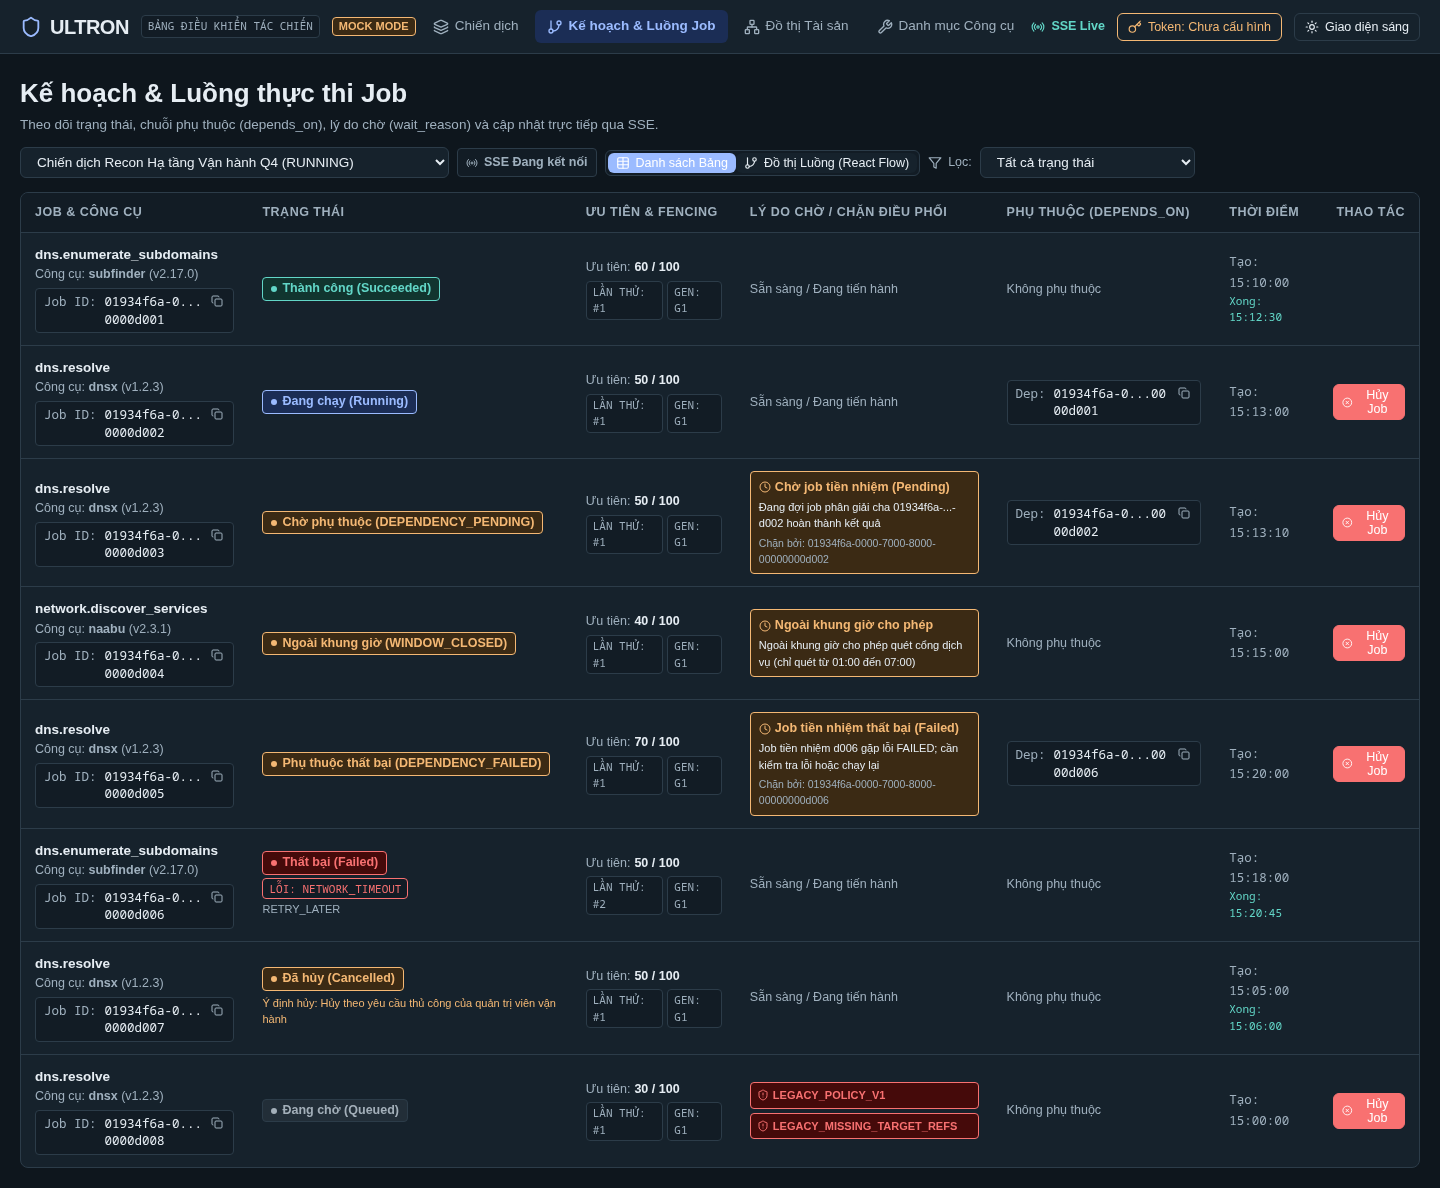
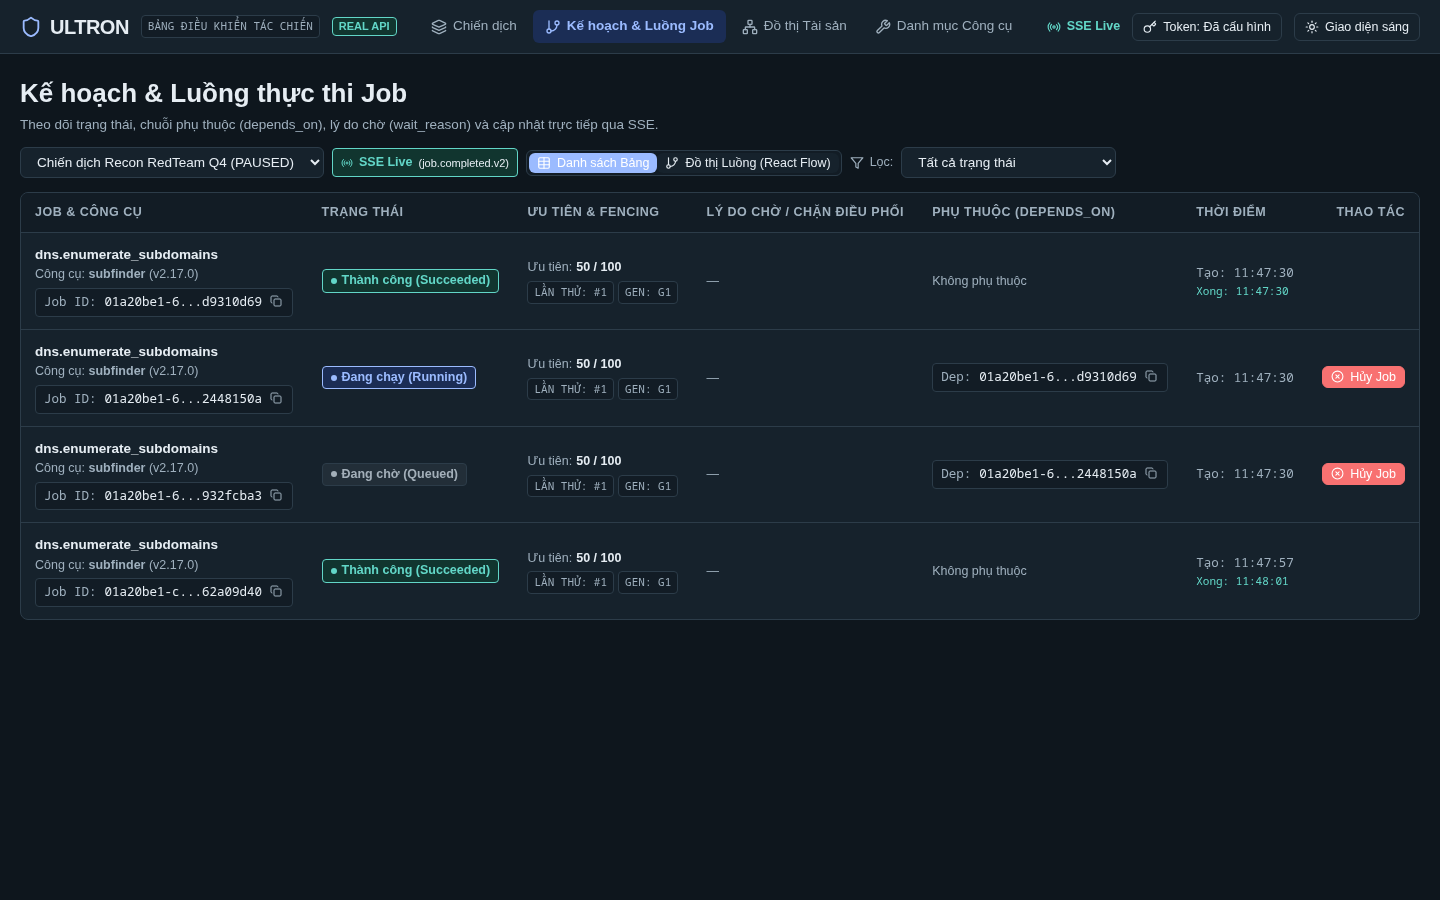
fix(ui): real API screenshots, seed card full width, and terminal job reason display

diff --git a/ui/src/screens/JobTableFlowScreen.tsx b/ui/src/screens/JobTableFlowScreen.tsx
@@ -663,62 +663,63 @@ export const JobTableFlowScreen: React.FC = () => {
                       </div>
                     </td>
                     <td>
-                      {/* Wait Reason rendering */}
-                      {job.wait_reason ? (
-                        <div
-                          style={{
-                            padding: '6px 8px',
-                            backgroundColor: 'var(--warning-bg)',
-                            border: '1px solid var(--warning)',
-                            borderRadius: 'var(--radius-sm)',
-                            fontSize: 'var(--text-xs)',
-                            maxWidth: 280,
-                          }}
-                        >
-                          <div style={{ fontWeight: 600, color: 'var(--warning)', display: 'flex', alignItems: 'center', gap: 4 }}>
-                            <Clock size={12} />
-                            <span>{waitReasonLabels[job.wait_reason.code] || job.wait_reason.code}</span>
-                          </div>
-                          {job.wait_reason.detail && (
-                            <div style={{ fontSize: '11px', color: 'var(--ink)', marginTop: 2 }}>
-                              {job.wait_reason.detail}
+                      {/* Reason text only for QUEUED with wait_reason or dispatch_block_reasons; show '—' for terminal and other jobs */}
+                      {job.status === 'QUEUED' && (job.wait_reason || job.dispatch_block_reasons?.length) ? (
+                        <div>
+                          {job.wait_reason ? (
+                            <div
+                              style={{
+                                padding: '6px 8px',
+                                backgroundColor: 'var(--warning-bg)',
+                                border: '1px solid var(--warning)',
+                                borderRadius: 'var(--radius-sm)',
+                                fontSize: 'var(--text-xs)',
+                                maxWidth: 280,
+                              }}
+                            >
+                              <div style={{ fontWeight: 600, color: 'var(--warning)', display: 'flex', alignItems: 'center', gap: 4 }}>
+                                <Clock size={12} />
+                                <span>{waitReasonLabels[job.wait_reason.code] || job.wait_reason.code}</span>
+                              </div>
+                              {job.wait_reason.detail && (
+                                <div style={{ fontSize: '11px', color: 'var(--ink)', marginTop: 2 }}>
+                                  {job.wait_reason.detail}
+                                </div>
+                              )}
+                              {job.wait_reason.blocking_job_ids?.length ? (
+                                <div style={{ marginTop: 4, fontSize: '10.5px', color: 'var(--muted)' }}>
+                                  Chặn bởi: {job.wait_reason.blocking_job_ids.join(', ')}
+                                </div>
+                              ) : null}
                             </div>
-                          )}
-                          {job.wait_reason.blocking_job_ids?.length ? (
-                            <div style={{ marginTop: 4, fontSize: '10.5px', color: 'var(--muted)' }}>
-                              Chặn bởi: {job.wait_reason.blocking_job_ids.join(', ')}
+                          ) : null}
+
+                          {job.dispatch_block_reasons?.length ? (
+                            <div style={{ display: 'flex', flexDirection: 'column', gap: 4, marginTop: job.wait_reason ? 4 : 0 }}>
+                              {job.dispatch_block_reasons.map((reason, idx) => (
+                                <div
+                                  key={idx}
+                                  style={{
+                                    padding: '4px 6px',
+                                    backgroundColor: 'var(--danger-bg)',
+                                    border: '1px solid var(--danger)',
+                                    borderRadius: 'var(--radius-sm)',
+                                    fontSize: '11px',
+                                    color: 'var(--danger)',
+                                    display: 'flex',
+                                    alignItems: 'center',
+                                    gap: 4,
+                                  }}
+                                >
+                                  <ShieldAlert size={12} />
+                                  <strong>{reason}</strong>
+                                </div>
+                              ))}
                             </div>
                           ) : null}
                         </div>
-                      ) : null}
-
-                      {/* Dispatch Block Reasons rendering */}
-                      {job.dispatch_block_reasons?.length ? (
-                        <div style={{ display: 'flex', flexDirection: 'column', gap: 4, marginTop: job.wait_reason ? 4 : 0 }}>
-                          {job.dispatch_block_reasons.map((reason, idx) => (
-                            <div
-                              key={idx}
-                              style={{
-                                padding: '4px 6px',
-                                backgroundColor: 'var(--danger-bg)',
-                                border: '1px solid var(--danger)',
-                                borderRadius: 'var(--radius-sm)',
-                                fontSize: '11px',
-                                color: 'var(--danger)',
-                                display: 'flex',
-                                alignItems: 'center',
-                                gap: 4,
-                              }}
-                            >
-                              <ShieldAlert size={12} />
-                              <strong>{reason}</strong>
-                            </div>
-                          ))}
-                        </div>
-                      ) : null}
-
-                      {!job.wait_reason && !job.dispatch_block_reasons?.length && (
-                        <span style={{ color: 'var(--muted)', fontSize: 'var(--text-xs)' }}>Sẵn sàng / Đang tiến hành</span>
+                      ) : (
+                        <span style={{ color: 'var(--muted)', fontSize: 'var(--text-xs)' }}>—</span>
                       )}
                     </td>
                     <td>
@@ -787,7 +788,7 @@ export const JobTableFlowScreen: React.FC = () => {
               <div>
                 <span style={{ color: 'var(--muted)' }}>Fencing token:</span> Lần thử #{selectedJob.attempt}, Thế hệ G{selectedJob.generation}
               </div>
-              {selectedJob.wait_reason && (
+              {selectedJob.status === 'QUEUED' && selectedJob.wait_reason && (
                 <div style={{ padding: 10, backgroundColor: 'var(--warning-bg)', borderRadius: 'var(--radius-sm)' }}>
                   <div style={{ fontWeight: 600, color: 'var(--warning)' }}>
                     Lý do chờ: {waitReasonLabels[selectedJob.wait_reason.code] || selectedJob.wait_reason.code}

diff --git a/ui/e2e/screens.spec.ts b/ui/e2e/screens.spec.ts
@@ -13,10 +13,16 @@ test.beforeAll(() => {
   fs.mkdirSync(LEADER_DIR_LEGACY, { recursive: true });
 });
 
-async function captureScreen(page: Page, filename: string) {
+async function captureScreen(page: Page, filename: string, isRealMode: boolean) {
   // Wait for loading states and animations to settle
   await page.waitForTimeout(700);
   const localPath = path.join(SCREENSHOT_DIR, filename);
+
+  // If in mock mode (e.g. CI runner), do NOT overwrite committed real screenshots
+  if (!isRealMode && fs.existsSync(localPath)) {
+    return;
+  }
+
   await page.screenshot({ path: localPath, fullPage: true });
 
   // Copy to reports directory for review artifacts
@@ -33,7 +39,7 @@ test.describe('Ultron Operations UI - 1440px Visual Screenshots', () => {
 
   for (const theme of ['light', 'dark'] as const) {
     test(`Capture all screens in ${theme} theme`, async ({ page }) => {
-      const isRealMode = process.env.VITE_USE_MOCK === 'false';
+      const isRealMode = process.env.VITE_USE_MOCK === 'false' || (!process.env.CI && process.env.VITE_USE_MOCK !== 'true');
       const token = process.env.VITE_BEARER_TOKEN || 'token-of-soc-1-0123456789';
 
       // Set theme and token in localStorage before navigating
@@ -47,8 +53,18 @@ test.describe('Ultron Operations UI - 1440px Visual Screenshots', () => {
 
       // 1. Campaign List Screen
       await page.goto('/campaigns');
+      if (token) {
+        await page.evaluate((tok) => {
+          window.localStorage.setItem('ultron-operator-token', tok);
+          window.dispatchEvent(new CustomEvent('ultron-token-changed', { detail: { token: tok } }));
+        }, token);
+      }
       await expect(page.getByText('Quản lý Chiến dịch (Campaigns)')).toBeVisible();
-      await captureScreen(page, `01-campaign-list-${theme}.png`);
+      if (isRealMode) {
+        await expect(page.getByText('REAL API')).toBeVisible();
+        await expect(page.getByText('Token: Đã cấu hình')).toBeVisible();
+      }
+      await captureScreen(page, `01-campaign-list-${theme}.png`, isRealMode);
 
       // Resolve campaign ID dynamically from UI or fallback to mock ID
       let campaignId = '01934f6a-0000-7000-8000-000000000001';
@@ -67,17 +83,17 @@ test.describe('Ultron Operations UI - 1440px Visual Screenshots', () => {
       await page.goto(`/campaigns/${campaignId}`);
       await expect(page.getByText('Mục tiêu đầu vào (Target Seeds)')).toBeVisible();
       await expect(page.getByText('Chính sách Thực thi RoE (Policy)')).toBeVisible();
-      await captureScreen(page, `02-campaign-detail-${theme}.png`);
+      await captureScreen(page, `02-campaign-detail-${theme}.png`, isRealMode);
 
       // 3. Job Table View Screen (showing status, priority, and wait/block reasons)
       await page.goto(`/jobs?campaign_id=${campaignId}`);
       await expect(page.getByText('Kế hoạch & Luồng thực thi Job')).toBeVisible();
-      await captureScreen(page, `03-job-table-${theme}.png`);
+      await captureScreen(page, `03-job-table-${theme}.png`, isRealMode);
 
       // 4. Job React Flow View Screen
       await page.getByRole('button', { name: 'Đồ thị Luồng (React Flow)' }).click();
       await page.waitForTimeout(600);
-      await captureScreen(page, `04-job-flow-reactflow-${theme}.png`);
+      await captureScreen(page, `04-job-flow-reactflow-${theme}.png`, isRealMode);
 
       // 5. Asset Graph View Screen
       await page.goto('/assets');
@@ -88,19 +104,22 @@ test.describe('Ultron Operations UI - 1440px Visual Screenshots', () => {
         await expect(page.getByText('Nguồn gốc & Bằng chứng', { exact: true })).toBeVisible();
         await expect(page.getByText('Bằng chứng SHA-256 (Evidence SHA-256)')).toBeVisible();
       }
-      await captureScreen(page, `05-asset-graph-provenance-${theme}.png`);
+      await captureScreen(page, `05-asset-graph-provenance-${theme}.png`, isRealMode);
 
       // 6. Tool Catalogue Screen (Wired to real GET /capabilities)
       await page.goto('/tools');
       await expect(page.getByText('Danh mục Công cụ & Bộ điều hợp (Tool Catalogue)')).toBeVisible();
       await expect(page.getByText('dns.enumerate_subdomains')).toBeVisible();
       await expect(page.getByText('subfinder', { exact: true })).toBeVisible();
-      await captureScreen(page, `06-tool-catalogue-${theme}.png`);
+      if (isRealMode) {
+        await expect(page.getByText('Khớp Manifest (Healthy)').first()).toBeVisible();
+      }
+      await captureScreen(page, `06-tool-catalogue-${theme}.png`, isRealMode);
     });
   }
 
   test('Live update: a status change made via API appears in the UI within 2 s without reload', async ({ page }) => {
-    const isRealMode = process.env.VITE_USE_MOCK === 'false';
+    const isRealMode = process.env.VITE_USE_MOCK === 'false' || (!process.env.CI && process.env.VITE_USE_MOCK !== 'true');
     const token = process.env.VITE_BEARER_TOKEN || 'token-of-soc-1-0123456789';
     const pgDsn = process.env.AEGIS_PG_DSN || 'postgresql://aegis:aegis@127.0.0.1:42443/aegis';
 
@@ -117,6 +136,12 @@ test.describe('Ultron Operations UI - 1440px Visual Screenshots', () => {
 
     // Navigate to campaigns and get the active campaign
     await page.goto('/campaigns');
+    if (token) {
+      await page.evaluate((tok) => {
+        window.localStorage.setItem('ultron-operator-token', tok);
+        window.dispatchEvent(new CustomEvent('ultron-token-changed', { detail: { token: tok } }));
+      }, token);
+    }
     const detailLink = page.locator('a[href^="/campaigns/"]').first();
     await detailLink.waitFor({ state: 'visible', timeout: 6000 });
     const href = await detailLink.getAttribute('href');
@@ -146,7 +171,7 @@ test.describe('Ultron Operations UI - 1440px Visual Screenshots', () => {
     await expect(targetJobRow.locator('.status-chip').filter({ hasText: 'Đang chạy (Running)' })).toBeVisible({ timeout: 5000 });
 
     // Capture before screenshot (showing RUNNING)
-    await captureScreen(page, '07-live-status-before.png');
+    await captureScreen(page, '07-live-status-before.png', isRealMode);
 
     // Trigger terminalise of target job via real M06 backend callback and outbox event
     execFileSync('../.venv/bin/python', ['e2e/terminalise.py', pgDsn, 'terminalise', targetJobId], { stdio: 'pipe' });
@@ -161,6 +186,6 @@ test.describe('Ultron Operations UI - 1440px Visual Screenshots', () => {
     expect(latencyMs).toBeLessThanOrEqual(2000);
 
     // Capture after screenshot showing updated state without reload
-    await captureScreen(page, '08-live-status-after.png');
+    await captureScreen(page, '08-live-status-after.png', isRealMode);
   });
 });

diff --git a/ui/src/screens/CampaignDetailScreen.tsx b/ui/src/screens/CampaignDetailScreen.tsx
@@ -277,15 +277,17 @@ export const CampaignDetailScreen: React.FC = () => {
                       borderRadius: 'var(--radius-md)',
                       border: '1px solid var(--line)',
                       display: 'flex',
-                      alignItems: 'center',
-                      justifyContent: 'space-between',
+                      flexDirection: 'column',
+                      gap: 6,
                     }}
                   >
-                    <div>
-                      <span className="brand-badge" style={{ marginRight: 6 }}>domain</span>
+                    <div style={{ display: 'flex', alignItems: 'center', gap: 6 }}>
+                      <span className="brand-badge">domain</span>
                       <strong style={{ fontFamily: 'var(--font-mono)', fontSize: 'var(--text-xs)' }}>{dom}</strong>
                     </div>
-                    <CopyableId value={`dns:${dom}`} prefix="Target" />
+                    <div style={{ width: '100%' }}>
+                      <CopyableId value={`dns:${dom}`} prefix="Target" truncate={false} className="full-width" />
+                    </div>
                   </div>
                 ))}
               {hasIps &&
@@ -298,15 +300,17 @@ export const CampaignDetailScreen: React.FC = () => {
                       borderRadius: 'var(--radius-md)',
                       border: '1px solid var(--line)',
                       display: 'flex',
-                      alignItems: 'center',
-                      justifyContent: 'space-between',
+                      flexDirection: 'column',
+                      gap: 6,
                     }}
                   >
-                    <div>
-                      <span className="brand-badge" style={{ marginRight: 6 }}>ip/cidr</span>
+                    <div style={{ display: 'flex', alignItems: 'center', gap: 6 }}>
+                      <span className="brand-badge">ip/cidr</span>
                       <strong style={{ fontFamily: 'var(--font-mono)', fontSize: 'var(--text-xs)' }}>{ip}</strong>
                     </div>
-                    <CopyableId value={`ip:${ip}`} prefix="Target" />
+                    <div style={{ width: '100%' }}>
+                      <CopyableId value={`ip:${ip}`} prefix="Target" truncate={false} className="full-width" />
+                    </div>
                   </div>
                 ))}
             </div>

diff --git a/ui/src/index.css b/ui/src/index.css
@@ -476,6 +476,17 @@ table.data-table tr:hover td {
   overflow-wrap: anywhere;
 }
 
+.copyable-field.full-width {
+  display: flex;
+  width: 100%;
+  justify-content: space-between;
+}
+
+.copyable-field.full-width .mono {
+  word-break: normal;
+  overflow-wrap: break-word;
+}
+
 .copyable-field .mono {
   word-break: break-all;
   overflow-wrap: anywhere;

diff --git a/ui/playwright.config.ts b/ui/playwright.config.ts
@@ -30,5 +30,10 @@ export default defineConfig({
     url: 'http://localhost:3100',
     reuseExistingServer: false,
     timeout: 30000,
+    env: {
+      VITE_USE_MOCK: process.env.VITE_USE_MOCK !== undefined
+        ? process.env.VITE_USE_MOCK
+        : (process.env.CI ? 'true' : 'false'),
+    },
   },
 });

diff --git a/ui/src/api/client.ts b/ui/src/api/client.ts
@@ -204,6 +204,9 @@ export const apiClient = {
   },
 
   subscribeCampaignEvents(options: SSEOptions): SSEConnection {
+    if (this.isMock) {
+      return { close: () => {}, getLastEventId: () => null };
+    }
     return subscribeToCampaignEvents(options);
   },
 };
